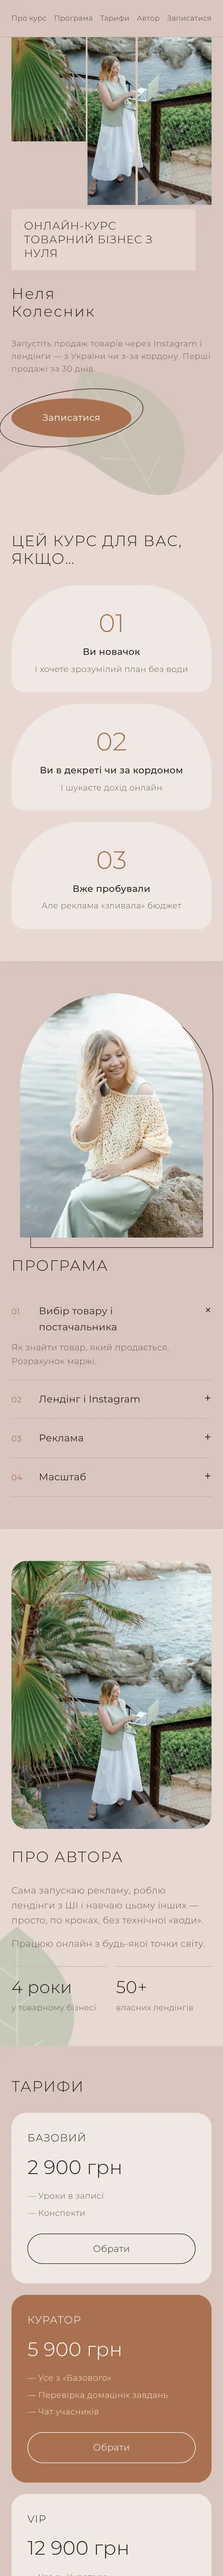
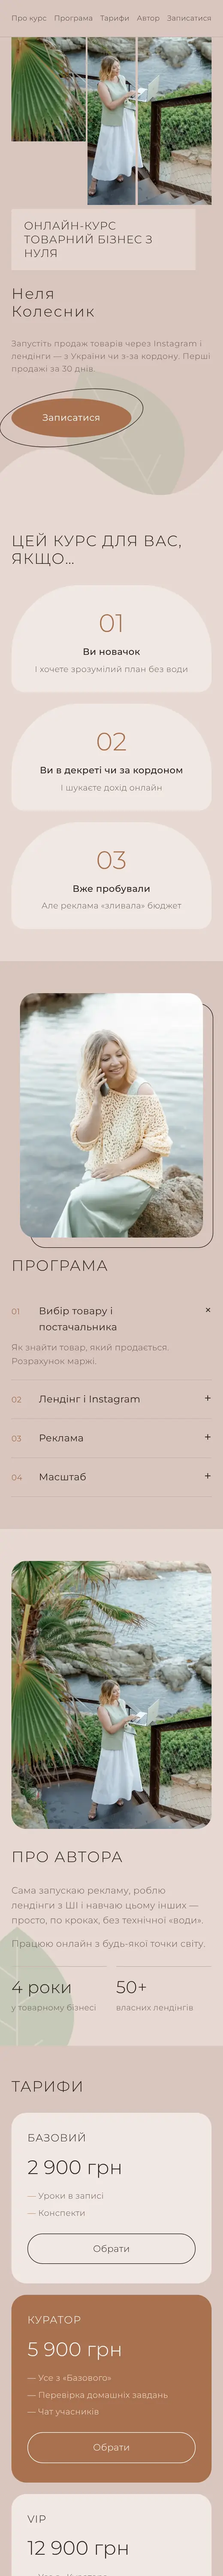
Онлайн-курс: фото в «Програмі» без арки
Claude-Session: https://claude.ai/code/session_01Qb9NFWfcnySvqMrgupV51i

Changed region(s): [[0.6769, 0.374, 0.9231, 0.4363], [0.0923, 0.374, 0.3385, 0.4363]]

diff --git a/examples/expert.html b/examples/expert.html
@@ -70,8 +70,8 @@ section>.wrap{position:relative;z-index:1}
 .prog{background:var(--bg)}
 .prog .wrap{display:grid;grid-template-columns:.9fr 1.1fr;gap:60px;align-items:start}
 .prog .ph{position:relative}
-.prog .ph img{width:100%;border-radius:220px 220px 0 0;filter:saturate(.85)}
-.prog .ph::after{content:"";position:absolute;inset:18px -18px -18px 18px;border:1px solid var(--ink);border-radius:220px 220px 0 0;z-index:-1}
+.prog .ph img{width:100%;border-radius:26px;filter:saturate(.85)}
+.prog .ph::after{content:"";position:absolute;inset:18px -18px -18px 18px;border:1px solid var(--ink);border-radius:26px;z-index:-1}
 details{border-bottom:1px solid var(--line);padding:20px 0}
 summary{list-style:none;cursor:pointer;display:flex;gap:18px;align-items:baseline;font-weight:400;font-size:17px}
 summary span{color:var(--brown);font-size:14px;min-width:30px}
